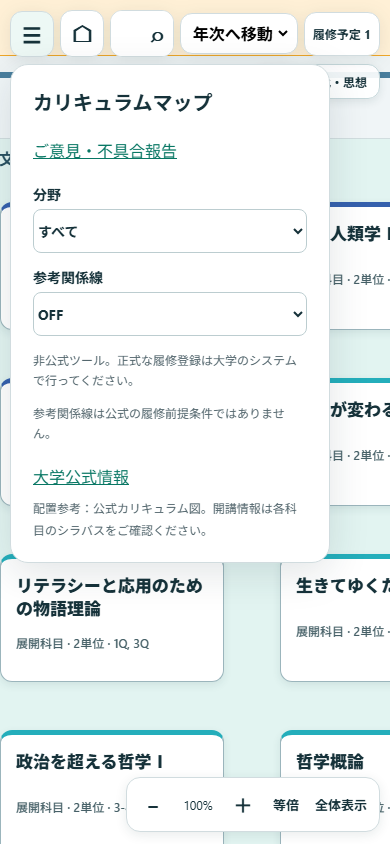
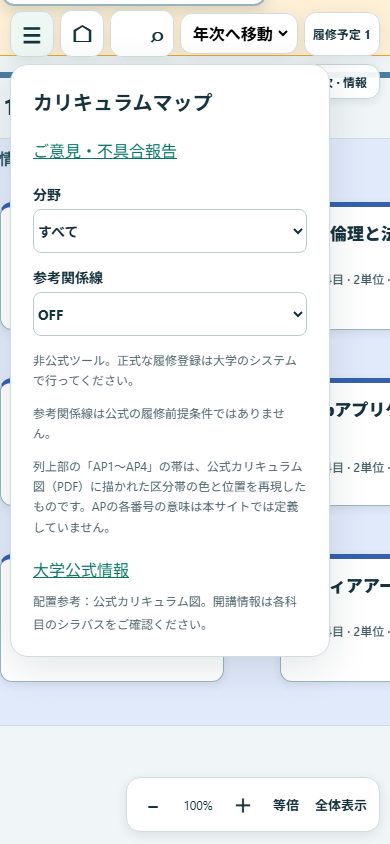
fix: 2026-11-27レビュー残課題A〜Hの修正
A 難易度表示の統一（小数第1位＋一覧に票数併記、詳細の別行投票数を統合）
B 初期ロード中の未確定数値を「…」表示に変更（visibility:hiddenをやめる）
C 絞り込みバッジを起動時状態からの変更条件のみカウント（復元済み除外設定を除外）
D 試験日程の件数を見出しに併記、同一日時重複行に「⚠ 重なっている科目があります」表示
E 卒業要件分析モーダルに凡例注記を追加、社会接続行の書式を他行に統一
F シミュレーター計画チェックの空き年次表示文言変更、ドラッグメモに自動保存を追記、
  分野フィルターをoptgroupで区分/分野に分類、シミュレーター側難易度も小数第1位に統一
G カリキュラムマップ初期表示を1年次・先頭分野に変更、詳細パネルの区分/分野ラベルを
  tag値に応じて分ける、ツリー同一座標重複ノードに説明ツールチップ追加、
  マップメニューにAP帯の注記を追加
H 使い方モーダルに4年シミュレーターの説明を追加、フィードバック送信ボタンを主要ボタンと同スタイルに
QA: qa:mapに375pxビューポート追加、試験日程QAの重複文言を新文言に更新

diff --git a/src/features/catalog/controller.js b/src/features/catalog/controller.js
@@ -8,6 +8,19 @@
   if (root) root.ZenHubCatalog = api;
 })(typeof window !== 'undefined' ? window : globalThis, function create(context) {
   'use strict';
+  // 絞り込みバッジは「ページ読み込み時の状態からユーザーが変更した条件」だけを
+  // 数える。復元された除外設定（pixiv除外など）は初期状態に含めるため、初期表示
+  // ではカウントされない。絞り込み自体の挙動は変えない。基準は起動時に1回だけ
+  // 取る（renderPredefinedList の中で取ると毎回更新されて常に0になる）。
+  const filterBaseline = {
+    filterYear: context.state.filterYear,
+    filterQuarter: context.state.filterQuarter,
+    filterCategory: context.state.filterCategory,
+    filterRequirement: context.state.filterRequirement,
+    excludePixiv: context.state.excludePixiv,
+    difficultySort: context.state.difficultySort,
+  };
+
   const clearCourseFilters = () => {
     context.state.filterYear = 'すべて表示';
     context.state.filterQuarter = 'すべて表示';
@@ -72,8 +85,7 @@
       ? `
       <section class="difficulty-section" aria-label="授業難易度">
         <h5 class="difficulty-title">📊 授業難易度</h5>
-        <p><strong>難易度目安：</strong>${difficulty.average.toFixed(2)} / 10.0</p>
-        <p><strong>投票数：</strong>${difficulty.votes}票</p>
+        <p><strong>難易度目安：</strong>${difficulty.average.toFixed(1)} / 10.0${Number.isFinite(difficulty.votes) ? `（${difficulty.votes}票）` : ''}</p>
         <p class="difficulty-source-row">
           <strong>出典：</strong><a href="${context.escapeHTML(difficulty.sourceUrl)}" target="_blank" rel="noopener noreferrer" class="difficulty-source">${context.escapeHTML(difficulty.sourceLabel)}</a>
         </p>
@@ -296,12 +308,12 @@
     );
 
     const activeConditionCount = [
-      context.state.filterYear !== 'すべて表示',
-      context.state.filterQuarter !== 'すべて表示',
-      context.state.filterCategory !== '分野',
-      context.state.filterRequirement !== 'すべて表示',
-      context.state.excludePixiv,
-      context.state.difficultySort !== 'default',
+      context.state.filterYear !== filterBaseline.filterYear,
+      context.state.filterQuarter !== filterBaseline.filterQuarter,
+      context.state.filterCategory !== filterBaseline.filterCategory,
+      context.state.filterRequirement !== filterBaseline.filterRequirement,
+      context.state.excludePixiv !== filterBaseline.excludePixiv,
+      context.state.difficultySort !== filterBaseline.difficultySort,
     ].filter(Boolean).length;
 
     const activeCountElement = document.getElementById('filter-active-count');
@@ -373,7 +385,7 @@
                       .join('')
                   : ''
               }
-              ${difficulty ? `<span class="badge difficulty-badge">難易度 ${difficulty.average.toFixed(1)}</span>` : ''}
+              ${difficulty ? `<span class="badge difficulty-badge">難易度 ${difficulty.average.toFixed(1)}${Number.isFinite(difficulty.votes) ? `（${difficulty.votes}票）` : ''}</span>` : ''}
             </div>
           </div>
           <div class="actions">

diff --git a/src/features/simulator/controller.js b/src/features/simulator/controller.js
@@ -157,8 +157,8 @@
       ? [
           {
             type: 'info',
-            label: '年次の配置',
-            message: `${emptyYears.map((year) => `${year}年次`).join('・')}に配置がありません`,
+            label: '未配置の年次',
+            message: emptyYears.map((year) => `${year}年次`).join('・'),
           },
         ]
       : [];
@@ -341,7 +341,7 @@
           ? `✓ ${formatSimulatorPlacement(course, placement)}に配置済み`
           : '未配置';
         const difficultyText = difficulty
-          ? `難易度 ${difficulty.average.toFixed(2)} / 10.0`
+          ? `難易度 ${difficulty.average.toFixed(1)} / 10.0`
           : '難易度 未登録';
         const placedClass = placement ? ' is-placed' : '';
         const isRegistered = context.state.registeredClasses.has(course.id);
@@ -580,18 +580,33 @@
 
     const categoryFilter = document.getElementById('sim-course-category-filter');
     if (categoryFilter) {
+      // course.tag は分野（情報・数理…）と必修区分を表す値（必修・卒業プロジェクト）が
+      // 同じ列に並ぶ。フィルターの挙動は変えずに、別の軸であることを optgroup で示す。
       const categories = [
         ...new Set(context.state.predefinedData.map((course) => course.tag).filter(Boolean)),
       ].sort((a, b) => a.localeCompare(b, 'ja'));
+      const groupTags = ['必修', '卒業プロジェクト'];
+      const fieldTags = categories.filter((category) => !groupTags.includes(category));
       const currentCategory = categoryFilter.value;
       categoryFilter.innerHTML =
         '<option value="すべて表示">分野</option>' +
-        categories
-          .map(
-            (category) =>
-              `<option value="${context.escapeHTML(category)}">${context.escapeHTML(category)}</option>`,
-          )
-          .join('');
+        (categories.some((category) => groupTags.includes(category))
+          ? `<optgroup label="必修区分など">${categories
+              .filter((category) => groupTags.includes(category))
+              .map(
+                (category) =>
+                  `<option value="${context.escapeHTML(category)}">${context.escapeHTML(category)}</option>`,
+              )
+              .join('')}</optgroup>`
+          : '') +
+        (fieldTags.length
+          ? `<optgroup label="分野">${fieldTags
+              .map(
+                (category) =>
+                  `<option value="${context.escapeHTML(category)}">${context.escapeHTML(category)}</option>`,
+              )
+              .join('')}</optgroup>`
+          : '');
       categoryFilter.value = categories.includes(currentCategory) ? currentCategory : 'すべて表示';
     }
 

diff --git a/src/features/graduation/controller.js b/src/features/graduation/controller.js
@@ -225,8 +225,8 @@
     const socialRow = `
       <div class="graduation-requirement-row graduation-social-row"${interactiveRow('社会接続', 'socialConnection')}>
         <strong>社会接続</strong>
-        <span>${context.escapeHTML(completedLabel)}取得：${completedAnalysis.socialConnection.actualCredits}単位 / 算入：${completedAnalysis.socialConnection.countedCredits}単位</span>
-        <span>${context.escapeHTML(plannedLabel)}取得：${plannedAnalysis.socialConnection.actualCredits}単位 / 算入：${plannedAnalysis.socialConnection.countedCredits}単位（上限${plannedAnalysis.socialConnection.capCredits}単位）</span>
+        <span>${context.escapeHTML(completedLabel)} ${completedAnalysis.socialConnection.countedCredits} / ${completedAnalysis.socialConnection.capCredits}単位（取得 ${completedAnalysis.socialConnection.actualCredits}単位）</span>
+        <span>${context.escapeHTML(plannedLabel)} ${plannedAnalysis.socialConnection.countedCredits} / ${plannedAnalysis.socialConnection.capCredits}単位（取得 ${plannedAnalysis.socialConnection.actualCredits}単位）</span>
       </div>${
         !targetElement && homeGraduationDetailState
           ? `<details class="graduation-course-breakdown" data-home-graduation-key="socialConnection">
@@ -244,6 +244,7 @@
     analysisResultElement.innerHTML = `
       <div class="analysis-box graduation-analysis" aria-describedby="graduation-analysis-note">
         <p class="graduation-analysis-legend"><strong>${context.escapeHTML(completedLabel)}</strong>は${context.escapeHTML(completedDescription)}、<strong>${context.escapeHTML(plannedLabel)}</strong>は${context.escapeHTML(plannedDescription)}です。</p>
+        <p class="graduation-analysis-legend" id="graduation-analysis-note">修得済みは「今までに取得済みの科目だけでの判定」。予定込みは「このまま履修予定を取れば卒業できそうか」の見込み判定です。算入＝卒業要件に数えられる単位のことで、社会接続は上限までしか数えられません。</p>
         <div class="graduation-overall-status" aria-live="polite">
           ${context.escapeHTML(completedLabel)}：<strong>${completedAnalysis.satisfied ? '達成' : '未達'}</strong> ／
           ${context.escapeHTML(plannedLabel)}：<strong>${plannedAnalysis.satisfied ? '達成見込み' : '不足'}</strong>

diff --git a/style.css b/style.css
@@ -1644,12 +1644,25 @@ body.simulator-view-active > #analysis-modal {
   gap: 10px;
 }
 
-/* 初回ロード中は未確定の「0件」や「総単位 —」を見せない。 */
+/* 初回ロード中は未確定の数値を空白や「0」と見せず、読み込み中表示（…）にする。 */
 body.app-loading .top-credit-gauge .gauge-value,
-body.app-loading .top-credit-gauge .gauge-fill,
 body.app-loading #earned-credits,
 body.app-loading #registered-count,
 body.app-loading #registered-credits {
+  visibility: visible;
+  color: transparent;
+}
+
+body.app-loading .top-credit-gauge .gauge-value::before,
+body.app-loading #earned-credits::before,
+body.app-loading #registered-count::before,
+body.app-loading #registered-credits::before {
+  content: '…';
+  color: #64748b;
+}
+
+/* 進捗バーの中身だけは確定まで非表示のまま。 */
+body.app-loading .top-credit-gauge .gauge-fill {
   visibility: hidden;
 }
 
@@ -2586,9 +2599,7 @@ body.curriculum-tree-explorer-mode #curriculum-tree-close {
   padding-left: 12px;
 }
 
-.graduation-social-row {
-  grid-template-columns: minmax(0, 0.8fr) minmax(0, 1fr) minmax(0, 1.4fr);
-}
+/* 社会接続行は他の要件行と同じ3列グリッドを使う（内容も同じ X / Y単位 書式に揃えた）。 */
 
 .graduation-analysis-error {
   color: #9b1c1c;
@@ -4832,4 +4843,28 @@ body[data-page='feedback'] h2 {
   cursor: pointer;
   padding: 8px 0;
   font-weight: bold;
+}
+/* 同じ日付・時限に複数科目がある行の警告表示。 */
+#exam-list .exam-collision {
+  color: #b45309;
+  font-weight: 600;
+}
+
+/* 送信ボタンを他の主要ボタン（卒業要件分析など）と同じスタイルに揃える。 */
+body[data-page='feedback'] button[type='submit'] {
+  display: inline-block;
+  padding: 12px 18px;
+  background-color: #1d4ed8;
+  color: white;
+  border: none;
+  border-radius: 8px;
+  cursor: pointer;
+  font-weight: 900;
+}
+body[data-page='feedback'] button[type='submit']:hover {
+  background-color: #1e40af;
+}
+body[data-page='feedback'] button[type='submit']:focus-visible {
+  outline: 2px solid #1d4ed8;
+  outline-offset: 2px;
 }

diff --git a/exam-feedback.js b/exam-feedback.js
@@ -70,15 +70,25 @@
     }
   }
 
+  function updateSummaryCount(totalRows) {
+    const summary = root.document.querySelector('#exam-schedule > summary');
+    if (!summary) return;
+    // 閉じた状態でも中身の件数が分かるように、対象の日程件数を見出しに添える。
+    summary.textContent = totalRows > 0 ? `試験日程（${totalRows}件）` : '試験日程';
+  }
+
   function renderEnrollment(ids = enrolledIds) {
     enrolledIds = [...new Set(ids)];
     const host = root.document.getElementById('exam-list');
     if (!host) return;
     if (failed) {
       host.textContent = MESSAGES.error;
+      updateSummaryCount(0);
       return;
     }
     const query = root.document.getElementById('exam-search')?.value || '';
+    // 見出しの件数は検索で絞る前の実件数。検索は一覧だけに効く。
+    updateSummaryCount(getEnrollmentRows(catalog, enrolledIds, '').length);
     const rows = getEnrollmentRows(catalog, enrolledIds, query);
     host.replaceChildren();
     if (!rows.length) {
@@ -95,7 +105,12 @@
         fragment.append(heading);
       }
       const line = host.ownerDocument.createElement('p');
-      line.textContent = `${row.period}限 ${row.courseName}${row.collision ? MESSAGES.collision : ''}`;
+      line.textContent = `${row.period}限 ${row.courseName}`;
+      if (row.collision) {
+        // 同じ日付・時限に2科目以上があることの機械的な表示。日程の意味づけはしない。
+        line.classList.add('exam-collision');
+        line.textContent += MESSAGES.collision;
+      }
       fragment.append(line);
     }
     host.append(fragment);

diff --git a/index.html b/index.html
@@ -156,6 +156,9 @@
                 </select>
               </label>
             </div>
+            <p class="filter-note">
+              開講Qは、選んだQを開講期間に含む科目を表示します（「1Q〜2Q」のように複数Qにまたがる科目も含まれます）。
+            </p>
             <label class="filter-checkbox" for="exclude-pixiv-filter">
               <input id="exclude-pixiv-filter" type="checkbox" />
               <span>pixiv関連科目を除外</span>
@@ -506,7 +509,7 @@
           <aside class="simulator-scheduled-panel" aria-labelledby="sim-scheduled-title">
             <h2 id="sim-scheduled-title">科目一覧</h2>
             <p class="simulator-note" id="simulator-drag-note">
-              未配置の科目は一覧カードからドラッグで配置できます。配置済みの科目はグリッド上でドラッグして移動できます。「配置」ボタンでも選べます。
+              未配置の科目は一覧カードからドラッグで配置できます。配置済みの科目はグリッド上でドラッグして移動できます。「配置」ボタンでも選べます。配置の変更は自動保存されます。
             </p>
             <div class="simulator-palette-tabs" role="tablist" aria-label="科目一覧の表示対象">
               <button

diff --git a/tests/curriculum-map.test.js b/tests/curriculum-map.test.js
@@ -58,7 +58,7 @@ test('every course in all four years can be centered at readable 100 percent', (
   }
 });
 
-test('initial camera starts at the central upper curriculum area at 100 percent', () => {
+test('initial camera starts at the leftmost field of the first year at 100 percent', () => {
   const layout = map.buildLayout(definition, courses);
   for (const viewport of [
     { width: 1440, height: 900 },
@@ -68,8 +68,9 @@ test('initial camera starts at the central upper curriculum area at 100 percent'
     const centerX = (viewport.width / 2 - camera.x) / camera.scale;
     const centerY = (viewport.height / 2 - camera.y) / camera.scale;
     assert.equal(camera.scale, 1);
-    const centralField = layout.fields.find((field) => field.field === '文化・思想');
-    assert.ok(centerX >= centralField.x && centerX < centralField.x + centralField.width);
+    // マップの起点（1年次側の先頭＝左端の列）が中央に来る。左端は切り取られない。
+    const startField = layout.fields[0];
+    assert.ok(centerX >= startField.x && centerX < startField.x + startField.width);
     assert.ok(centerY >= layout.years[0].y && centerY < layout.years[0].y + layout.years[0].height);
     assert.ok(
       layout.positions.some(

diff --git a/src/features/map/geometry.js b/src/features/map/geometry.js
@@ -185,17 +185,12 @@
 
   const initialCamera = (layout, viewport) => {
     const firstYear = layout.years[0];
-    const centralField = layout.fields.find((field) => field.field === '文化・思想');
-    const centralCard = layout.positions
-      .filter((box) => box.region === 'year-1' && box.field === centralField?.field)
+    // マップの起点（1年次側の先頭＝左端の列）が見える位置で始める。
+    const startField = layout.fields[0];
+    const startCard = layout.positions
+      .filter((box) => box.region === 'year-1' && box.field === startField?.field)
       .sort((a, b) => a.x - b.x || a.y - b.y)[0];
-    const centralStart = layout.positions
-      .filter((box) => box.region === 'year-1' && box.field === '多言語')
-      .sort((a, b) => a.x - b.x || a.y - b.y)[0];
-    const firstVisibleX =
-      viewport.width < 600
-        ? centralCard?.x || layout.width / 2
-        : centralStart?.x || centralCard?.x || layout.width / 2;
+    const firstVisibleX = startCard?.x || layout.width / 2;
     const target = { x: firstVisibleX + viewport.width / 2, y: firstYear.y + 350 };
     return { scale: 1, x: viewport.width / 2 - target.x, y: viewport.height / 2 - target.y };
   };

diff --git a/src/features/simulator/dialogs.js b/src/features/simulator/dialogs.js
@@ -164,7 +164,7 @@
         ${course.tag ? `<div><dt>分野</dt><dd>${context.escapeHTML(course.tag)}</dd></div>` : ''}
         ${course.method ? `<div><dt>授業方法</dt><dd>${context.escapeHTML(course.method)}</dd></div>` : ''}
         ${course.teacher ? `<div><dt>担当</dt><dd>${context.escapeHTML(course.teacher)}</dd></div>` : ''}
-        ${difficulty ? `<div><dt>難易度</dt><dd>${difficulty.average.toFixed(2)} / 10.0（${difficulty.votes}票）<br><a href="${context.escapeHTML(difficulty.sourceUrl)}" target="_blank" rel="noopener noreferrer">${context.escapeHTML(difficulty.sourceLabel)}</a></dd></div>` : ''}
+        ${difficulty ? `<div><dt>難易度</dt><dd>${difficulty.average.toFixed(1)} / 10.0（${difficulty.votes}票）<br><a href="${context.escapeHTML(difficulty.sourceUrl)}" target="_blank" rel="noopener noreferrer">${context.escapeHTML(difficulty.sourceLabel)}</a></dd></div>` : ''}
       </dl>
       ${window.ZenExam.detail(course)}
       ${course.description ? `<section class="simulator-course-detail-description"><h3>概要</h3><p>${context.escapeHTML(course.description)}</p></section>` : ''}

diff --git a/src/features/curriculum/controller.js b/src/features/curriculum/controller.js
@@ -304,9 +304,15 @@
             node.dataset.collisionSize = String(position.collisionSize);
           }
           node.title =
-            position.officialConfidence === 'confirmed'
-              ? '公式PDFで配置を確認済み'
-              : '公式PDF上の位置未確認（暫定配置）';
+            position.collisionSize > 1
+              ? `同じ位置に複数の科目が表示されています（${position.collisionIndex + 1}/${position.collisionSize}件目）· ${
+                  position.officialConfidence === 'confirmed'
+                    ? '公式PDFで配置を確認済み'
+                    : '公式PDF上の位置未確認（暫定配置）'
+                }`
+              : position.officialConfidence === 'confirmed'
+                ? '公式PDFで配置を確認済み'
+                : '公式PDF上の位置未確認（暫定配置）';
           node.draggable = true;
           node.tabIndex = 0;
           node.setAttribute('role', 'button');

diff --git a/src/styles/catalog.css b/src/styles/catalog.css
@@ -10,12 +10,25 @@
   gap: 10px;
 }
 
-/* 初回ロード中は未確定の「0件」や「総単位 —」を見せない。 */
+/* 初回ロード中は未確定の数値を空白や「0」と見せず、読み込み中表示（…）にする。 */
 body.app-loading .top-credit-gauge .gauge-value,
-body.app-loading .top-credit-gauge .gauge-fill,
 body.app-loading #earned-credits,
 body.app-loading #registered-count,
 body.app-loading #registered-credits {
+  visibility: visible;
+  color: transparent;
+}
+
+body.app-loading .top-credit-gauge .gauge-value::before,
+body.app-loading #earned-credits::before,
+body.app-loading #registered-count::before,
+body.app-loading #registered-credits::before {
+  content: '…';
+  color: #64748b;
+}
+
+/* 進捗バーの中身だけは確定まで非表示のまま。 */
+body.app-loading .top-credit-gauge .gauge-fill {
   visibility: hidden;
 }
 

diff --git a/curriculum-map.js b/curriculum-map.js
@@ -489,11 +489,14 @@
       if (open) openDrawer('detail', '科目詳細');
       drawerContent.replaceChildren(element('h3', course.subject));
       const metadata = element('dl');
+      // course.tag は分野（情報・数理…）と必修区分を表す値（必修・卒業プロジェクト）が
+      // 同じ列に並ぶ。値に合わせてラベルを分ける（データは変えない）。
+      const tagLabel = course.tag === '必修' || course.tag === '卒業プロジェクト' ? '区分' : '分野';
       for (const [label, value] of [
         ['学年', course.year],
         ['開講Q', course.quarter],
         ['単位', `${course.credits}単位`],
-        ['分野', course.tag],
+        [tagLabel, course.tag],
         ['教員', course.teacher],
         ['形式', course.method],
       ]) {
